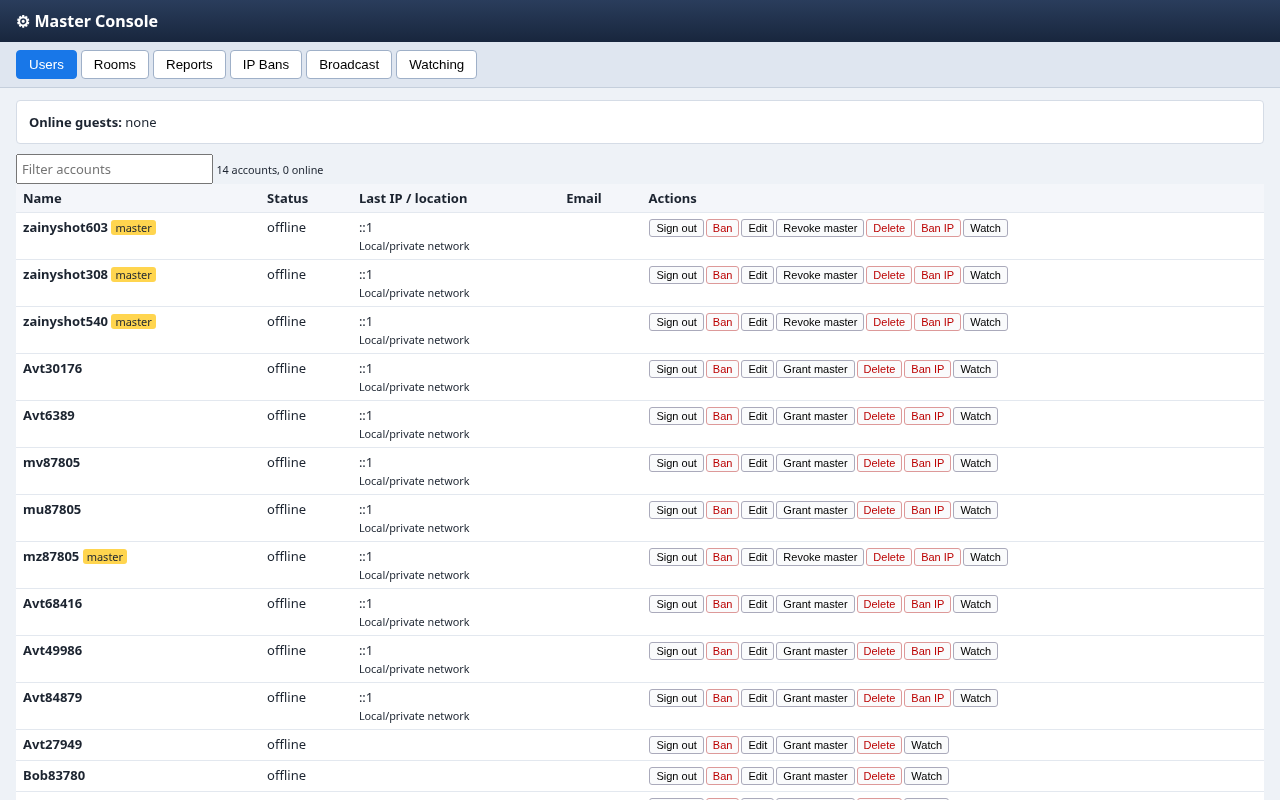
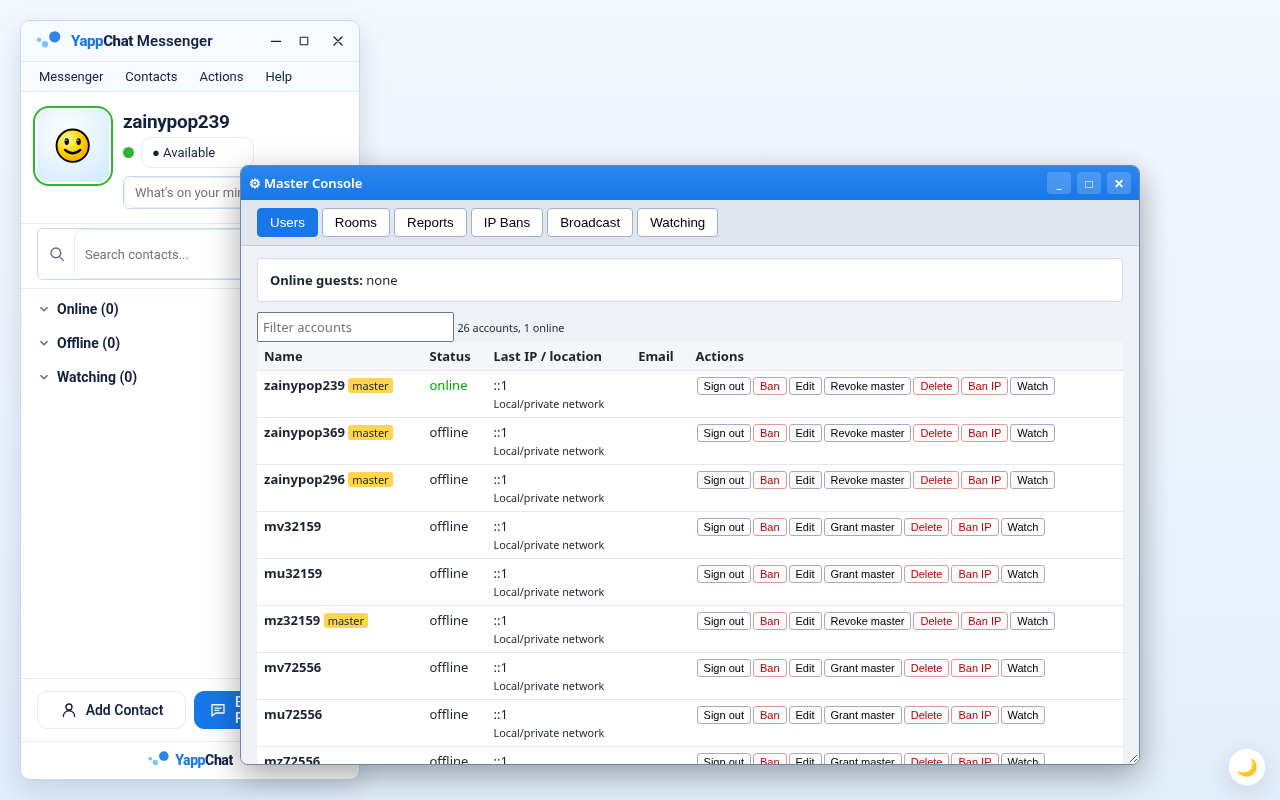
v11.2: Master Console as in-app pop-up window

diff --git a/master-win.js b/master-win.js
@@ -1,0 +1,23 @@
+// In-app Master Console window (served only to masters via /api/master/ui.js)
+window.openMasterConsole = function () {
+  let w = document.getElementById('ymcw'); if (w) { w.style.display = ''; w.classList.remove('min'); w.style.zIndex = ++window._ymz; return; }
+  window._ymz = window._ymz || 9000;
+  if (!document.getElementById('ymcs')) { const st = document.createElement('style'); st.id = 'ymcs'; st.textContent = `
+#ymcw{position:fixed;left:60px;top:50px;width:900px;height:600px;min-width:360px;min-height:200px;background:#fff;border:1px solid #6d86a8;border-radius:8px;box-shadow:0 10px 32px rgba(0,0,0,.35);display:flex;flex-direction:column;resize:both;overflow:hidden;z-index:9000;font:13px system-ui,Arial}
+#ymcw .ymtb{display:flex!important;flex-direction:row!important;align-items:center!important;gap:6px;height:auto!important;padding:6px 8px!important;margin:0!important;background:linear-gradient(#2a86ef,#1877e8)!important;color:#fff!important;font:600 13px system-ui!important;cursor:move;user-select:none;border:0!important}
+#ymcw .ymtb span{flex:1!important;text-align:left!important;color:#fff!important}#ymcw .ymtb button{all:unset;box-sizing:border-box!important;display:inline-block!important;flex:none!important;width:24px!important;min-width:0!important;height:22px!important;padding:0!important;margin:0!important;border:0!important;box-shadow:none!important;text-align:center!important;line-height:22px!important;border-radius:4px!important;cursor:pointer;background:rgba(255,255,255,.18)!important;color:#fff!important;font:700 12px system-ui!important}#ymcw .ymtb button:hover{background:rgba(255,255,255,.35)!important}#ymcw .ymtb .x:hover{background:#e5484d!important}
+#ymcw iframe{flex:1;border:0;width:100%}#ymcw.min{height:auto!important;resize:none}#ymcw.min iframe{display:none}
+#ymcw.max{left:0!important;top:0!important;width:100vw!important;height:100vh!important;border-radius:0;resize:none}`; document.head.appendChild(st); }
+  w = document.createElement('div'); w.id = 'ymcw'; w.setAttribute('role', 'dialog'); w.setAttribute('aria-label', 'Master Console');
+  w.innerHTML = '<div class=ymtb><span>&#9881; Master Console</span><button class=mn title=Minimize>_</button><button class=mx title=Maximize>&#9633;</button><button class=x title=Close>&#10005;</button></div><iframe src="/master?embed=1" title="Master Console"></iframe>';
+  document.body.appendChild(w); w.style.zIndex = ++window._ymz;
+  const tb = w.querySelector('.ymtb'), fr = w.querySelector('iframe');
+  w.querySelector('.x').onclick = () => w.remove();
+  w.querySelector('.mn').onclick = () => { w.classList.remove('max'); w.classList.toggle('min'); };
+  w.querySelector('.mx').onclick = () => { w.classList.remove('min'); w.classList.toggle('max'); };
+  tb.ondblclick = e => { if (e.target === tb || e.target.tagName === 'SPAN') w.querySelector('.mx').click(); };
+  w.onpointerdown = () => w.style.zIndex = ++window._ymz;
+  tb.onpointerdown = e => { if (e.target.tagName === 'BUTTON' || w.classList.contains('max')) return; const r = w.getBoundingClientRect(), dx = e.clientX - r.left, dy = e.clientY - r.top; fr.style.pointerEvents = 'none';
+    const mv = ev => { w.style.left = Math.max(0, Math.min(innerWidth - 80, ev.clientX - dx)) + 'px'; w.style.top = Math.max(0, Math.min(innerHeight - 30, ev.clientY - dy)) + 'px'; };
+    const up = () => { fr.style.pointerEvents = ''; removeEventListener('pointermove', mv); removeEventListener('pointerup', up); }; addEventListener('pointermove', mv); addEventListener('pointerup', up); };
+};

diff --git a/master.html b/master.html
@@ -4,11 +4,12 @@ nav{display:flex;gap:4px;padding:8px 16px;background:#dfe6f0;border-bottom:1px s
 main{padding:12px 16px}table{border-collapse:collapse;width:100%;background:#fff}td,th{border-bottom:1px solid #e3e8ef;padding:5px 7px;text-align:left;vertical-align:top}th{background:#f4f6fa;position:sticky;top:0}
 .on{color:#0a0}.b{font-size:11px;padding:2px 6px;margin:1px;border:1px solid #aab;border-radius:3px;background:#fafbfc;cursor:pointer}.b.r{color:#b00;border-color:#d99}.tag{background:#ffd54f;border-radius:3px;padding:0 4px;font-size:11px}
 input,select{padding:4px;font:inherit}.box{background:#fff;padding:12px;border:1px solid #d5dce6;border-radius:4px;margin-bottom:10px}#msg{position:fixed;right:12px;bottom:12px;background:#1c2430;color:#fff;padding:8px 12px;border-radius:4px;display:none}</style></head><body>
-<header>&#9881; Master Console</header><nav id=tabs></nav><main id=main>Loading...</main><div id=msg></div>
+<header id=hdr>&#9881; Master Console</header><nav id=tabs></nav><main id=main>Loading...</main><div id=msg></div>
 <script>
 const $=id=>document.getElementById(id),E=s=>String(s??'').replace(/[&<>"']/g,c=>({'&':'&amp;','<':'&lt;','>':'&gt;','"':'&quot;',"'":'&#39;'}[c]));
 const api=async(u,b)=>{const r=await fetch('/api/master/'+u,b?{method:'POST',headers:{'Content-Type':'application/json'},body:JSON.stringify(b)}:{});const j=await r.json().catch(()=>({}));if(!r.ok){toast(j.error||'Error '+r.status);throw j}return j};
 const toast=t=>{$('msg').textContent=t;$('msg').style.display='block';clearTimeout(toast.t);toast.t=setTimeout(()=>$('msg').style.display='none',2500)};
+if(new URLSearchParams(location.search).get('embed'))$('hdr').remove();
 const T={Users,Rooms,Reports,'IP Bans':Ipb,Broadcast,Watching};let cur='Users';
 $('tabs').innerHTML=Object.keys(T).map(k=>`<button data-t="${k}">${k}</button>`).join('');document.querySelectorAll('#tabs button').forEach(b=>b.onclick=()=>{cur=b.dataset.t;show()});
 function show(){document.querySelectorAll('#tabs button').forEach(b=>b.classList.toggle('on',b.dataset.t==cur));T[cur]()}

diff --git a/public/rooms.html b/public/rooms.html
@@ -200,7 +200,7 @@ function createRoom(){if(!acct)return alert('Sign in with a screen name (Messeng
   S.emit('create-room',{name:w.querySelector('#crN').value,topic:w.querySelector('#crT').value,rating:rt.value,mics:+w.querySelector('#crM').value},r=>{if(r.adult)return ask18(go);if(r.error)return w.querySelector('#crE').textContent=r.error;x();loadRooms();if(!me){room=r.name;login()}})};
  w.querySelector('#crS').onclick=go}
 $('mk').onclick=createRoom;
-function login(){S.emit('login',{name:$('nm').value,room},r=>{if(r.adult)return ask18(login);if(r.error)return $('err').textContent=r.error;if(r.m&&!window.MASTER){window.MASTER=true;const a=document.createElement('a');a.href='/master';a.target='_blank';a.id='mcon';a.className='hb';a.textContent='Master Console';a.style.cssText='text-decoration:none;align-self:center;padding:0 8px';$('bInfo').after(a)}
+function login(){S.emit('login',{name:$('nm').value,room},r=>{if(r.adult)return ask18(login);if(r.error)return $('err').textContent=r.error;if(r.m&&!window.MASTER){window.MASTER=true;const ms=document.createElement('script');ms.src='/api/master/ui.js';document.head.appendChild(ms);const a=document.createElement('a');a.href='#';a.onclick=e=>{e.preventDefault();window.openMasterConsole&&openMasterConsole()};a.id='mcon';a.className='hb';a.textContent='Master Console';a.style.cssText='text-decoration:none;align-self:center;padding:0 8px';$('bInfo').after(a);const dd=$('mJoin').parentNode;dd.insertAdjacentHTML('afterbegin','<div id=mMcon>Master Console</div><hr>');$('mMcon').onclick=()=>window.openMasterConsole&&openMasterConsole()}
  me=r.name;$('login').style.display='none';$('brand').style.display='none';$('chat').style.display='block';
  $('sws').innerHTML=r.colors.map(c=>`<span class="sw${c==st.color?' on':''}" data-c="${c}" style="background:${c}"></span>`).join('');
  document.querySelectorAll('.sw').forEach(e=>e.onclick=()=>{st.color=e.dataset.c;$('msg').style.color=st.color;document.querySelectorAll('.sw').forEach(x=>x.classList.toggle('on',x==e))});

diff --git a/public/index.html b/public/index.html
@@ -221,7 +221,7 @@ fetch('/api/status').then(r=>r.json()).then(s=>{if(!s.accounts){$('maint').style
 let MW=null,watchL=[];
 async function loadWatch(){try{const r=await fetch('/api/master/watch');if(r.ok){watchL=await r.json();render()}}catch{}}
 function masterInit(){MW=1;const dd=document.querySelector('#menu>div .dd');if(dd)dd.insertAdjacentHTML('afterbegin','<div id=mcon>Master Console</div><div id=mwadd>Watch a Screen Name...</div><hr>');
- $('mcon')&&($('mcon').onclick=()=>window.open('/master','_blank'));$('mwadd')&&($('mwadd').onclick=async()=>{const n=prompt('Screen name to watch silently (they are not notified):');if(!n)return;const r=await fetch('/api/master/watch',{method:'POST',headers:{'Content-Type':'application/json'},body:JSON.stringify({name:n})});if(!r.ok)alert((await r.json().catch(()=>({}))).error||'Failed');loadWatch()});
+ const ms=document.createElement('script');ms.src='/api/master/ui.js';document.head.appendChild(ms);$('mcon')&&($('mcon').onclick=()=>window.openMasterConsole&&openMasterConsole());$('mwadd')&&($('mwadd').onclick=async()=>{const n=prompt('Screen name to watch silently (they are not notified):');if(!n)return;const r=await fetch('/api/master/watch',{method:'POST',headers:{'Content-Type':'application/json'},body:JSON.stringify({name:n})});if(!r.ok)alert((await r.json().catch(()=>({}))).error||'Failed');loadWatch()});
  loadWatch();setInterval(loadWatch,15000)}
 fetch('/api/me').then(r=>r.json()).then(m=>{if(m.name){start();if(m.m)masterInit()}});
 $('toUp').onclick=()=>{$('fIn').style.display='none';$('fUp').style.display='flex';$('uName').focus()};$('toIn').onclick=()=>{$('fUp').style.display='none';$('fIn').style.display='contents'};

diff --git a/test-master.js b/test-master.js
@@ -21,6 +21,9 @@ let srv; const start = async () => { srv = spawn('node', ['server.js'], { env: {
     const me2 = await (await get('/api/me', uc)).json(); ok(me2.name && !('m' in me2), '/api/me has no master field for normal users');
     for (const p of ['/master', '/api/master/data', '/api/master/rooms', '/api/master/reports', '/api/master/watch']) ok((await get(p, uc)).status === 404, 'non-master gets 404 on ' + p);
     ok((await get('/master', mc)).status === 200, 'master can open /master console');
+    const ui = await get('/api/master/ui.js', mc); ok(ui.status === 200 && /openMasterConsole/.test(await ui.text()), 'master gets in-app console window script');
+    ok((await get('/api/master/ui.js', uc)).status === 404 && (await get('/api/master/ui.js')).status === 404, 'console window script is master-only');
+    const ph = await (await fetch(U + '/rooms.html')).text() + await (await fetch(U + '/')).text(); ok(!/window\.open\('\/master'|href='\/master'/.test(ph), 'menus no longer navigate to /master');
     ok((await post('/api/master/account', { name: 'mv' + sfx, action: 'grant' }, uc)).status === 404, 'non-master cannot grant master');
     // hidden in rooms
     const m = conn(mc), u = conn(uc), v = conn(vc); socks.push(m, u, v); const ulog = []; u.on('msg', x => ulog.push(x)); let uros = []; u.on('roster', r => uros = r);

diff --git a/server.js b/server.js
@@ -10,7 +10,7 @@ io.use(async (s, next) => { if (MASTER.ipBanned(geo.clientIp(s.handshake.headers
 const ROOMS = { 'Lobby':'General','Friends':'General','Chit Chat':'General','Late Night':'General' };
 const TOPICS = { 'Lobby':'Welcome! Pull up a chair and say hi','Friends':'Make new friends and catch up with old ones','Chit Chat':'Talk about anything and everything','Late Night':'For the night owls - who else is still up?' };
 const MAXLEN = 300, HIST = 50, COLORS = ['#000000','#ff0000','#0000ff','#008000','#800080','#ff6600','#008080','#990033'];
-const users = new Map(); const VERSION = 'v11.1-master-watchip'; // lower(name) -> socket.id
+const users = new Map(); const VERSION = 'v11.2-master-popup'; // lower(name) -> socket.id
 const history = Object.fromEntries(Object.keys(ROOMS).map(r => [r, []]));
 // ---- user-created rooms (public, in memory; removed after ~10 min empty) ----
 const UROOMS = new Map(); // name -> { owner, ownerLc, emptySince }

diff --git a/master.js b/master.js
@@ -41,6 +41,7 @@ module.exports = function (C) {
   function kickOut(name) { // disconnect all sockets (rooms + messenger) for an account name
     const lc = String(name).toLowerCase(); for (const s of io.sockets.sockets.values()) if ((s.data.acct && s.data.acct.name.toLowerCase() === lc) || (s.data.name && s.data.name.toLowerCase() === lc && !s.data.guest)) { s.emit('m:signedout'); s.disconnect(true); } }
 
+  app.get('/api/master/ui.js', guard((req, res) => { res.set('Cache-Control', 'no-store'); res.sendFile(path.join(__dirname, 'master-win.js')); }));
   app.get('/master', guard((req, res) => res.sendFile(path.join(__dirname, 'master.html'))));
   app.get('/api/master/data', guard(async (req, res) => {
     const d = await geo.adminData(acc.isOnline); const ms = new Set((await q('select name from users where is_master')).map(r => r.name));
